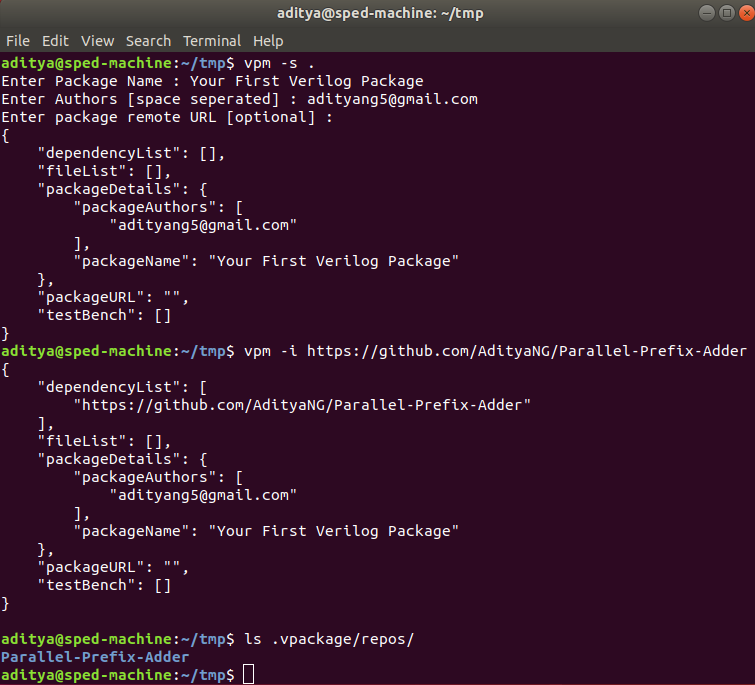
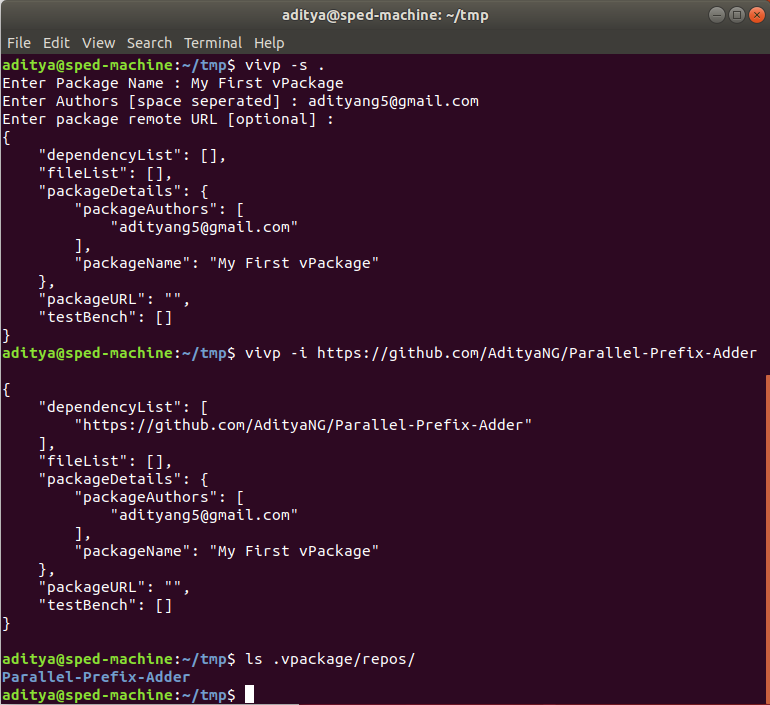
Name change to vivp

diff --git a/README.md b/README.md
@@ -2,7 +2,7 @@
 
 <img src="https://github.com/AdityaNG/VIVP/blob/main/docs/img/demo1.png?raw=true" width="600">
 
-
+VIVP Installs Verilog Packages
 Verilog Package Manager. A simple package manager for all your verilog projects
 
 ## Installing
